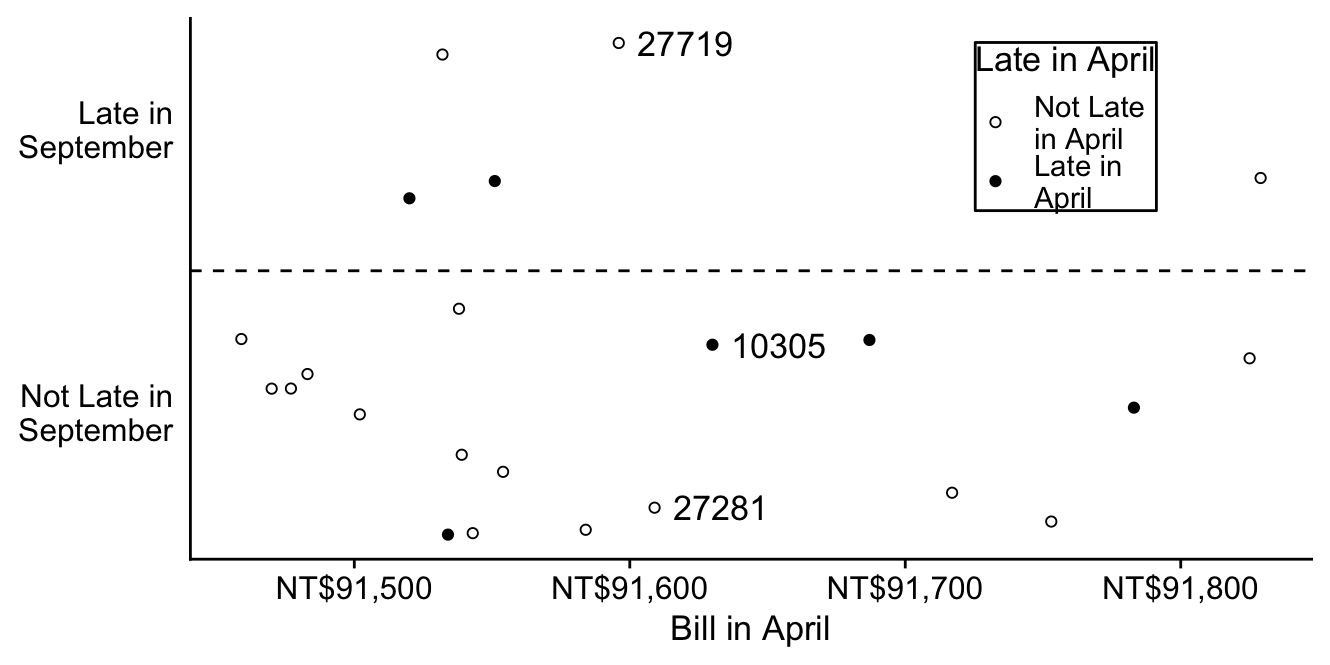
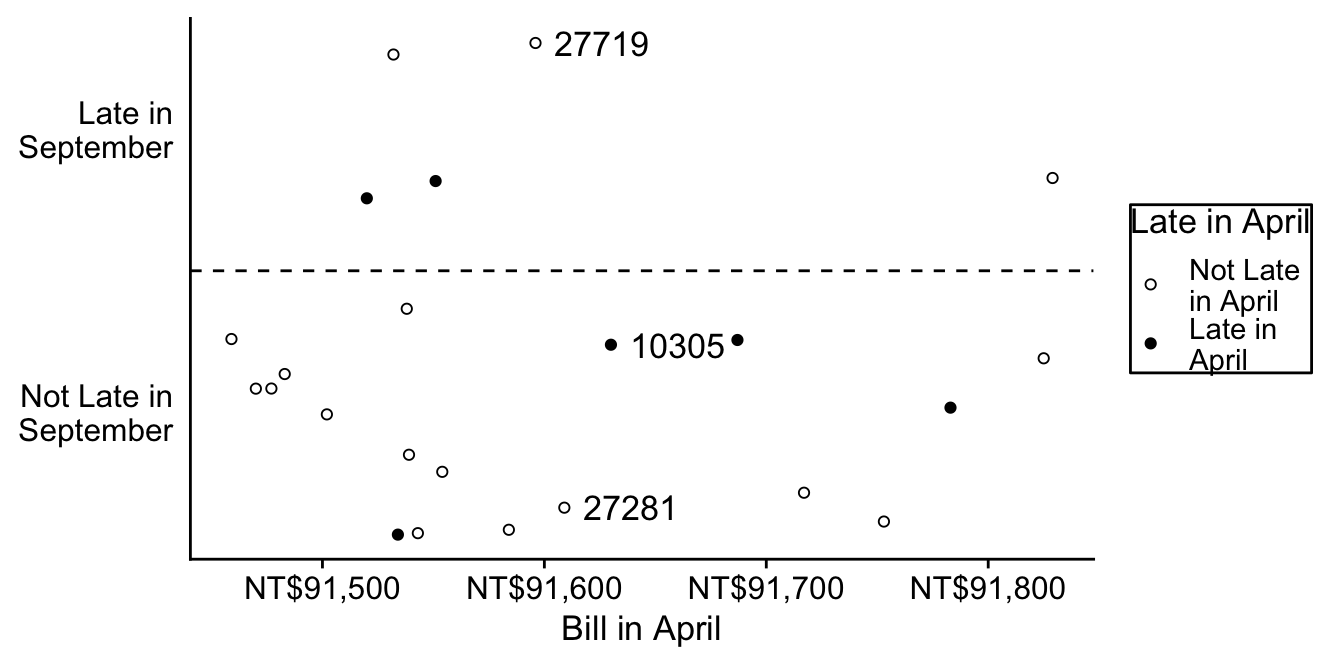
OJS MHD app and a little ggplot fix

diff --git a/Matching/Matching.html b/Matching/Matching.html
@@ -340,16 +340,6 @@ Propensity score matching is a criterion based on the notion that *observations 
 .vcenter[
 .blockquote[
 ### Example: Defaulting on credit card debt
-
-```
-## Warning: A numeric `legend.position` argument in `theme()` was deprecated in ggplot2
-## 3.5.0.
-## ℹ Please use the `legend.position.inside` argument of `theme()` instead.
-## This warning is displayed once every 8 hours.
-## Call `lifecycle::last_lifecycle_warnings()` to see where this warning was
-## generated.
-```
-
 &lt;div class="figure" style="text-align: left"&gt;
 &lt;img src="Matching_files/figure-html/unnamed-chunk-6-1.png" alt="5: UCI Credit Card data" width="70%" style="display:block; margin-right:auto; margin-left:auto;" /&gt;
 &lt;p class="caption"&gt;5: UCI Credit Card data&lt;/p&gt;
@@ -493,7 +483,6 @@ The 2-nearest-neighbors match will include some observations in the control grou
     &lt;/ul&gt;
   &lt;/div&gt;
 &lt;/div&gt;
-
 
 &lt;link rel="stylesheet" href="https://cdn.jsdelivr.net/npm/@observablehq/inspector@5/dist/inspector.css"&gt;
 &lt;script type="module"&gt;
@@ -678,6 +667,40 @@ The following steps guides to obtain Mahalonobis distance:
 &lt;!-- - Each variables are divided by the whole covariance matrix from the squared values of the variables.  --&gt;
 &lt;!-- - If all the matching variables are unrelated to each other, this simplifies to just dividing each variable by its standard deviation. --&gt;
 &lt;!-- - But if they are related to each other, this removes the relationships between the matching variables, making them independent before matching. --&gt;
+
+---
+# Multiple matching variables
+
+&lt;div class="thecontainer"&gt;
+  &lt;div id="observablehq-theplot-a5f86017"&gt;&lt;/div&gt;
+  &lt;div id="observablehq-styles-a5f86017"&gt;&lt;/div&gt;
+  &lt;div class="right-aligned"&gt;
+    &lt;ul style="list-style-type:none;"&gt;
+      &lt;li&gt;&lt;div id="observablehq-viewof-ED-a5f86017"&gt;&lt;/div&gt;&lt;/li&gt;
+      &lt;li&gt;&lt;div id="observablehq-viewof-caliper-a5f86017"&gt;&lt;/div&gt;&lt;/li&gt;
+      &lt;li&gt;&lt;div id="observablehq-viewof-correlationFactor-a5f86017""&gt;&lt;/div&gt;&lt;/li&gt;
+    &lt;/ul&gt;
+    &lt;ul&gt;
+      &lt;li&gt;The dashed circle shows a perimeter of the specified &lt;b&gt;Euclidean distance&lt;/b&gt; (ED) around the selected observation. These are potential ED matches for the selected observation.&lt;/li&gt;
+      &lt;li&gt;Observations (of the other group) within the specified &lt;b&gt;Mahalanobis distance&lt;/b&gt; (MHD) to the selected observation are highlighted with a cyan outline. These are potential MHD matches for the selected observation.&lt;/li&gt;
+      &lt;li&gt; \(SD(V1) = SD(V2) = \sqrt{120}\approx 10.95\). So \(\text{MHD} = 1\) is equivalent to \(\text{ED} = 10.95\) for \(\text{Corr}(V1,V2)=0\) (why?).&lt;/li&gt;
+      &lt;li&gt; Watch what happens when we introduce correlation!&lt;/li&gt;
+    &lt;/ul&gt;
+  &lt;/div&gt;
+&lt;/div&gt;
+
+&lt;link rel="stylesheet" href="https://cdn.jsdelivr.net/npm/@observablehq/inspector@5/dist/inspector.css"&gt;
+&lt;script type="module"&gt;
+import {Runtime, Inspector} from "https://cdn.jsdelivr.net/npm/@observablehq/runtime@5/dist/runtime.js";
+import define from "https://api.observablehq.com/d/4da2bc277fec4645@873.js?v=4";
+new Runtime().module(define, name =&gt; {
+  if (name === "theplot") return new Inspector(document.querySelector("#observablehq-theplot-a5f86017"));
+  if (name === "viewof ED") return new Inspector(document.querySelector("#observablehq-viewof-ED-a5f86017"));
+  if (name === "viewof caliper") return new Inspector(document.querySelector("#observablehq-viewof-caliper-a5f86017"));
+  if (name === "viewof correlationFactor") return new Inspector(document.querySelector("#observablehq-viewof-correlationFactor-a5f86017"));
+  return ["covXY","covarianceMatrix","sigmasqrt","det","inverseMatrix","thepoints","MahalanobisDistance","middleBluePoint","xc","yc"].includes(name);
+});
+&lt;/script&gt;
 
 ---
 # Multiple matching variables
